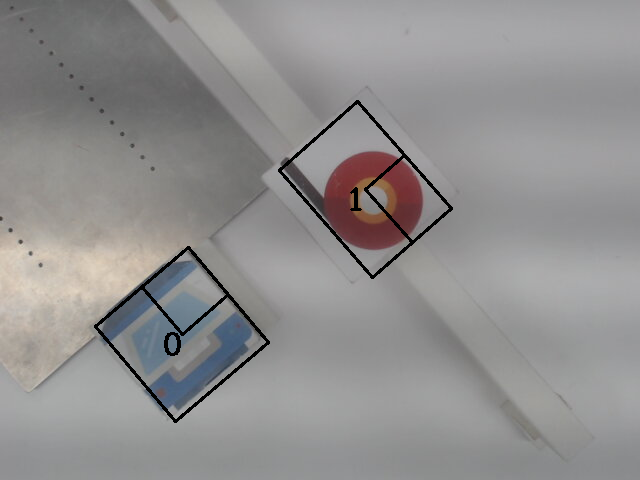
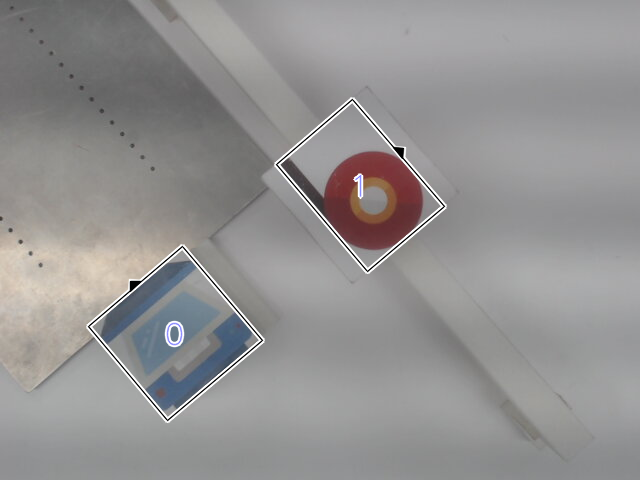
Update changelog and demo assets

diff --git a/CHANGELOG.md b/CHANGELOG.md
@@ -7,9 +7,49 @@ and this project adheres to [Semantic Versioning][].
 
 ## \[Unreleased\]
 
+## \[0.5.0\] - 2021-10-11
+
+The release is mainly for training iterating changing from epoch based to batch based:
+
+-   Deconfuse parameters designing for learning scheduler and training progress.
+-   Shorten time cost to make a backup/checkpoint/evaluation for large dataset training.
+
+``` yaml
+train_param:
+  max_iter: 30000
+  esti_iter: 500
+  bak_iter: 500
+```
+
+And the optimizer choosing is changed from name only to full module path,
+which can deal with loading PyTorch compatible 3rd party or custom optimizer.
+
+``` yaml
+train_param:
+  optimizer:
+    name: 'torch.optim.SGD'
+    args: {'lr': 0.01, 'weight_decay': 0.0005}
+```
+
+### Added
+
+-   Add annotation loading progress for dataset loader.
+-   Add sequential sampler to replace the functionality of `repeats` for dataset loader.
+-   Add FPS estimation when performing real-time inference on video device with recaller.
+
+### Changed
+
+-   The training progress is now based on batch instead of epoch.
+-   Optimizer is now choosing by full module path.
+-   The drawing style of detection visualization have been updated.
+
 ### Fixed
 
 -   Fix training mode error handling for utilities.
+
+### Removed
+
+-   The `repeats` functionality for dataset loader have been removed.
 
 ## \[0.4.0\] - 2021-08-09
 
